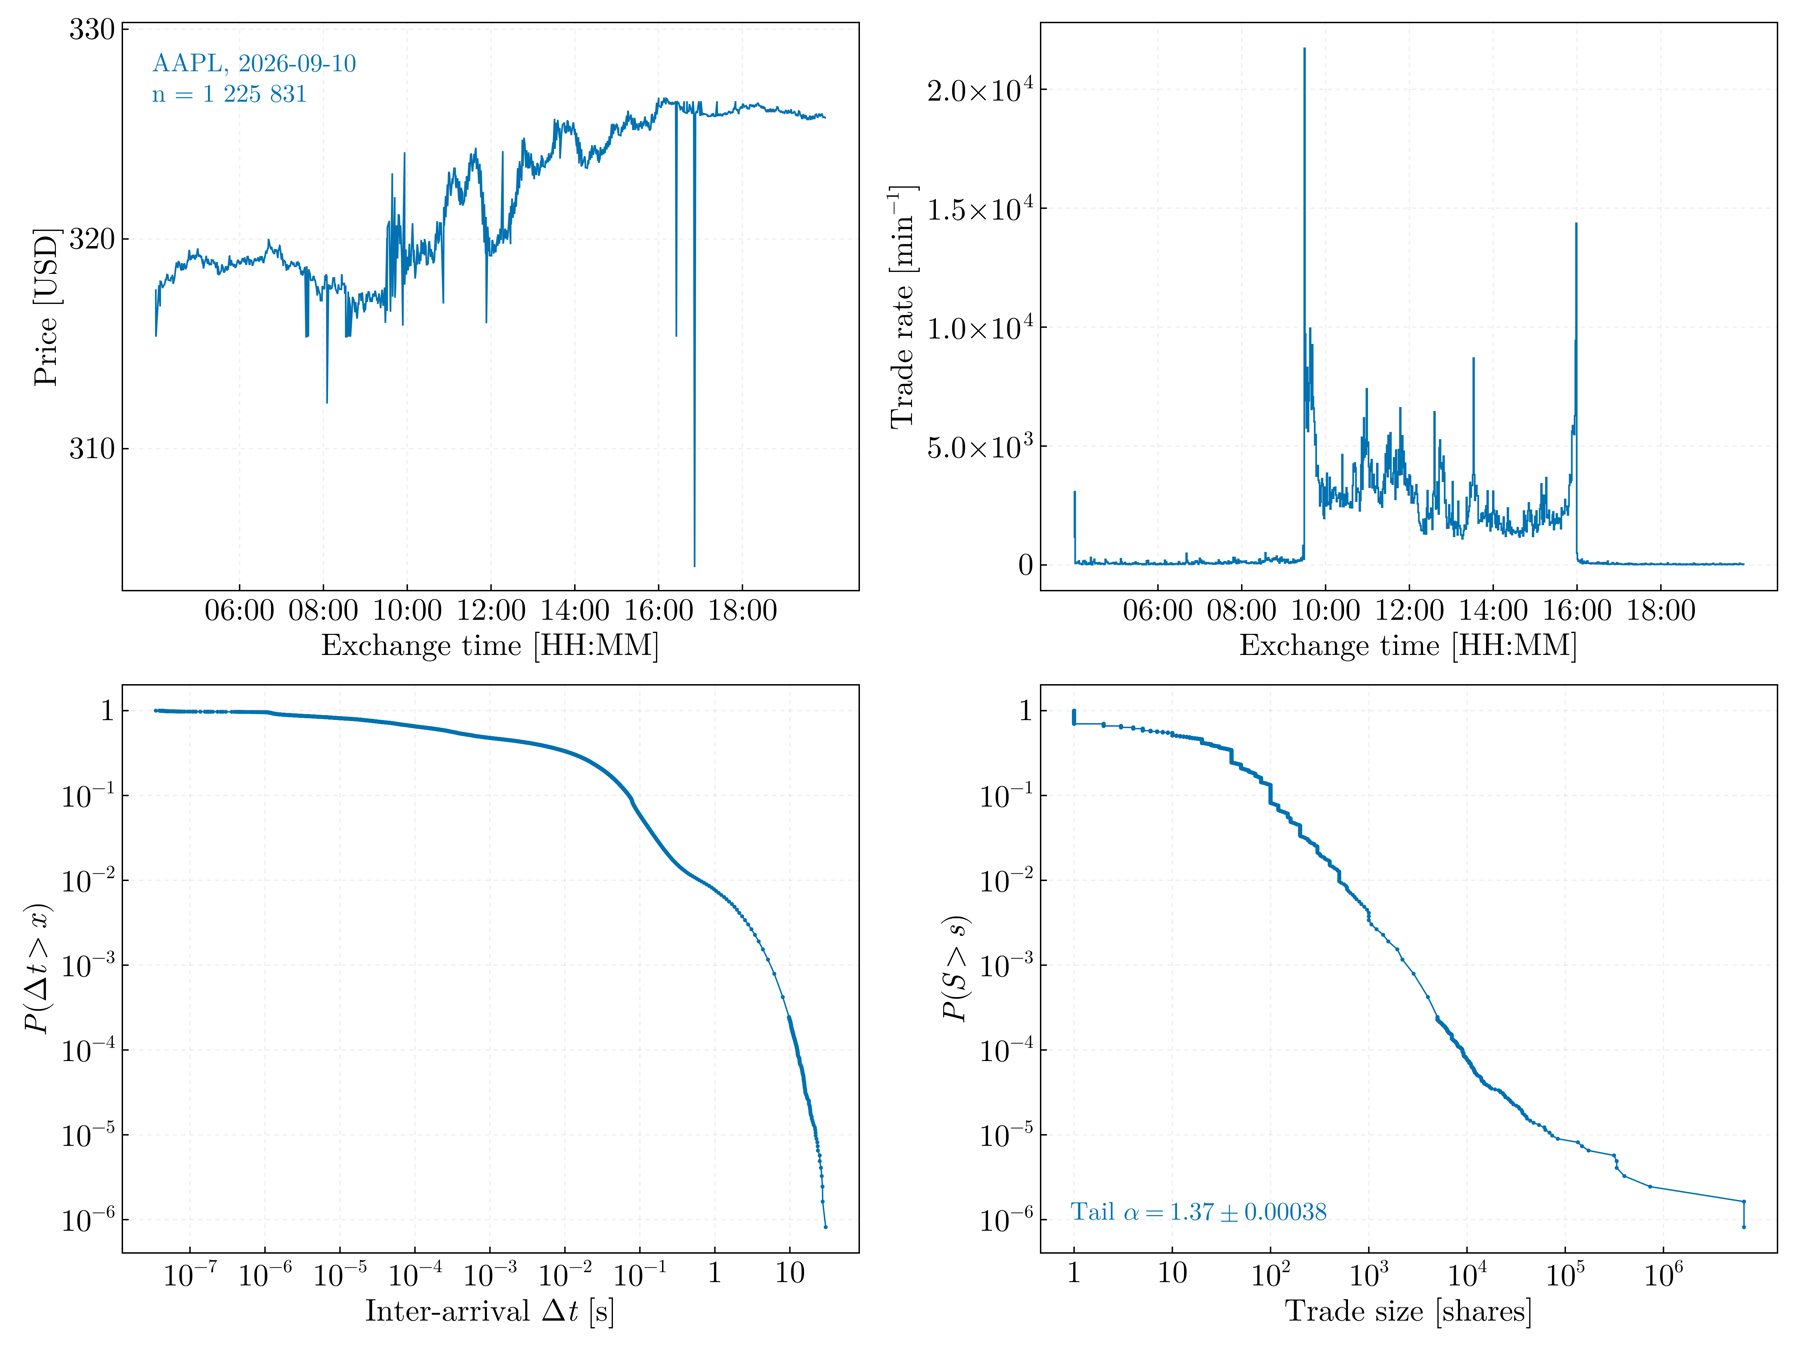
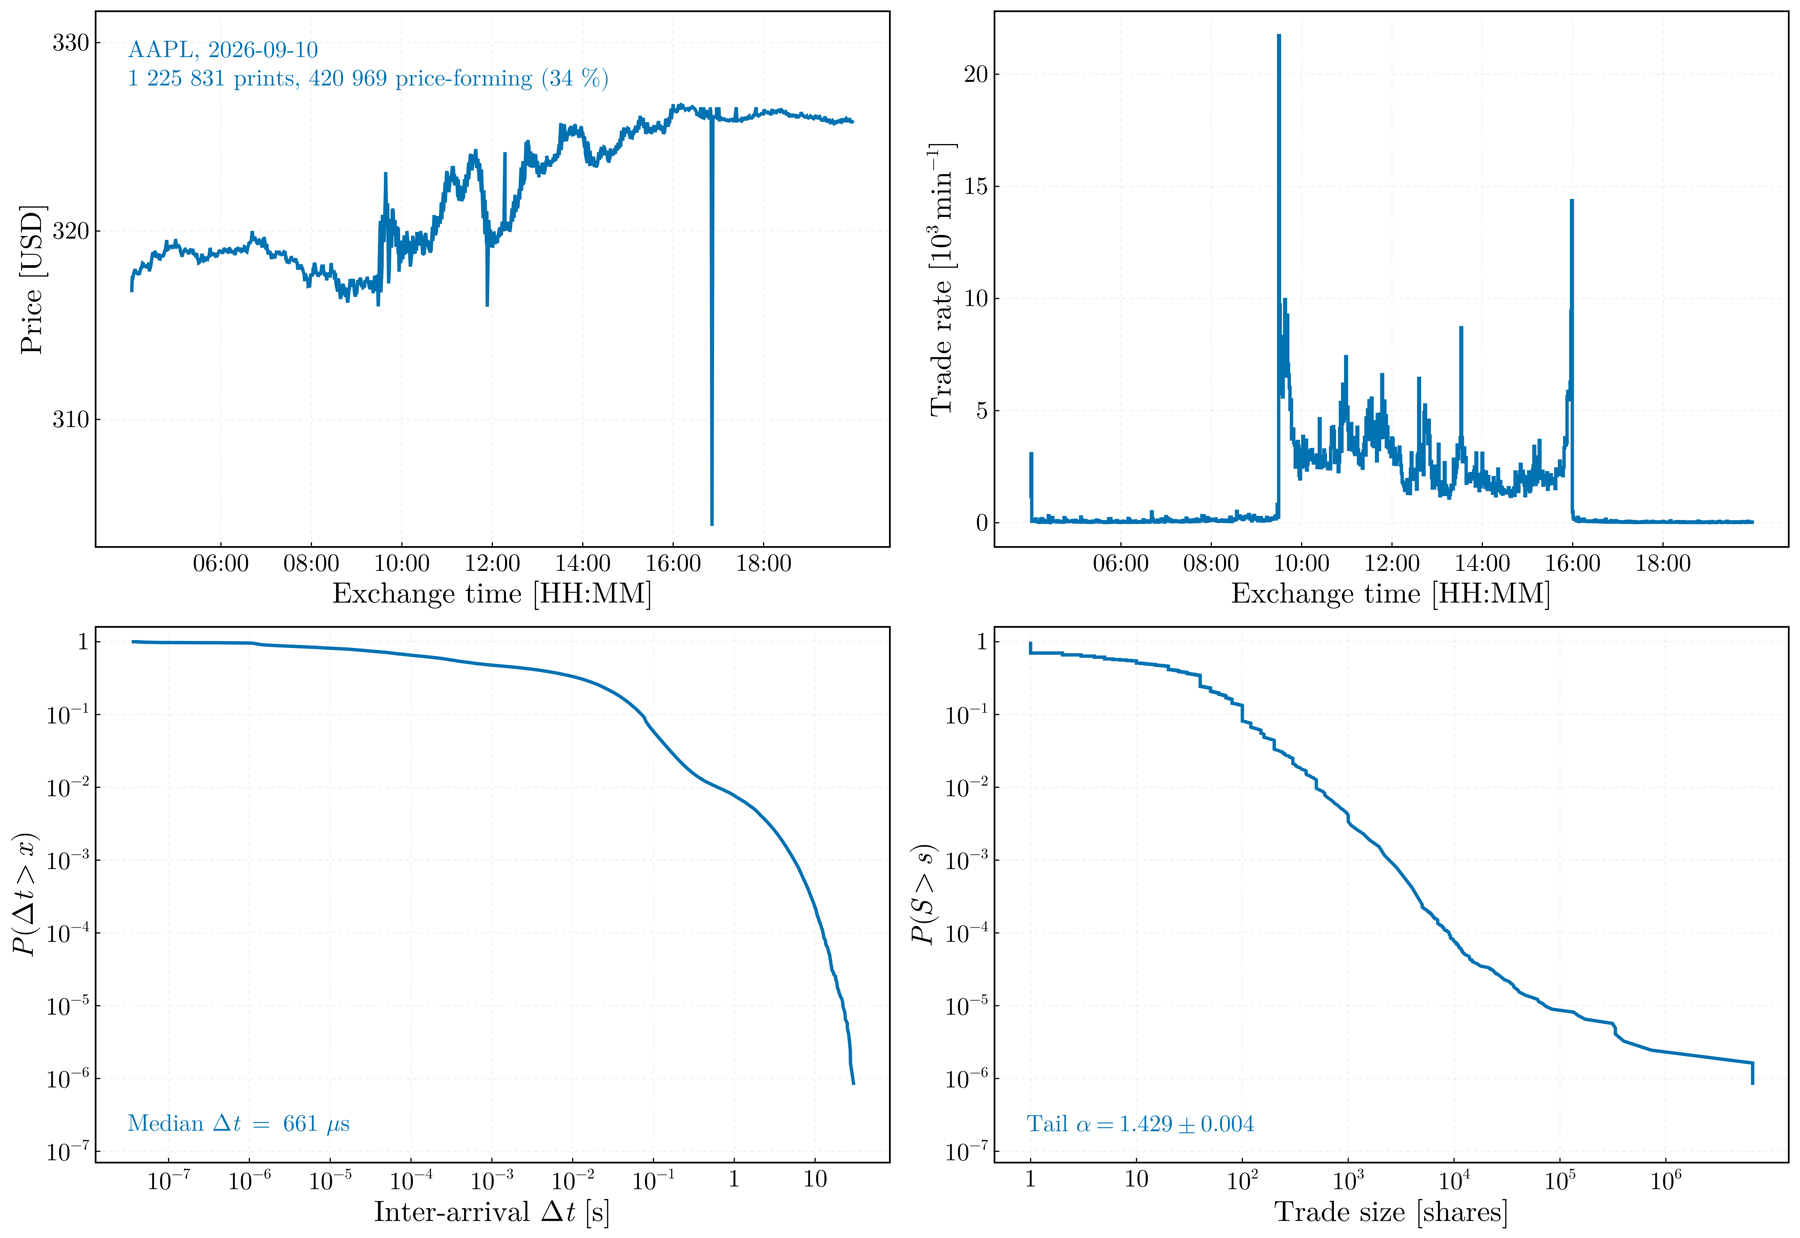
docs: regenerate the README figures under the figure standard
GIF frames are rendered at the standard canvas and type sizes and scaled down
on assembly; the replayed path uses price-forming prints, as the static
figure does.

diff --git a/CHANGELOG.md b/CHANGELOG.md
@@ -28,6 +28,9 @@ Notable changes to MarketTickStreamer. The format follows
   corrupt line and compaction continued.
 - `docs/make_readme_assets.jl` relied on CairoMakie being installed in the
   global environment.
+- Log axes of up to four decades outside the plain-decimal range labelled
+  their 2× and 5× ticks with the rounded decade, so a tick at 0.2 read
+  `10⁻¹` and one at 0.5 read `1`. Intermediate ticks now carry their mantissa.
 
 ### Changed
 - `load_config` checks every key for type and documented bounds and rejects
@@ -38,6 +41,18 @@ Notable changes to MarketTickStreamer. The format follows
 - The test suite has its own environment (`test/Project.toml`); scripts
   activate through `activate.jl`, and `scripts/startup.jl` is removed.
 - `ProviderSpec` has a fifth field, `max_page_limit`.
+- The tail exponent annotated on size distributions is the Hill estimator
+  over the top decile, with its asymptotic standard error. It was a
+  least-squares slope of the log-log survival function, whose standard error
+  is not meaningful because the points of a cumulative curve are correlated.
+  Annotated values change.
+- `session_figure` and `overview_figure` draw the price path from
+  price-forming prints and annotate their share; activity and the
+  distributions still count every print. Both take `non_price`.
+- Figures follow one layout standard: 26 pt labels over 22 pt ticks, 3-wide
+  data lines, 1600 × 1100 canvas, a single exponent per axis, survival
+  functions anchored on a labelled decade, a logarithmic activity color scale,
+  and overview panels aligned on one grid.
 
 ### Added
 - `observed_round_lot`, and a `round_lot` column in `session_report`: the
